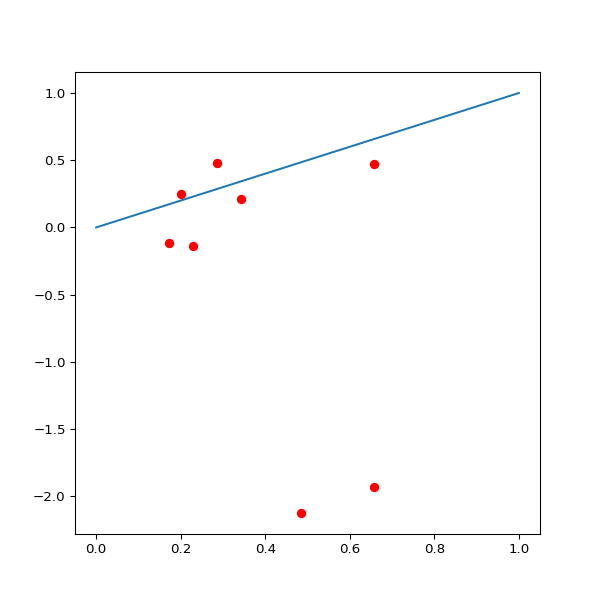
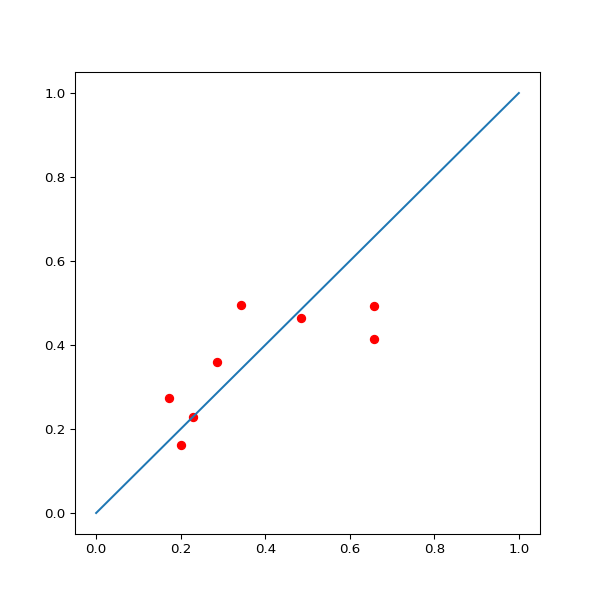
p1 done

diff --git a/project2/fitting.py b/project2/fitting.py
@@ -17,7 +17,7 @@ from drift_diffusion_simul import drift_diffusion_simulation
 ### You can define your own functions or constants here ... if you want.
 
 
-def model(x, c1, c2, c3, c4):
+def p1model(x, c1, c2, c3, c4):
     x = np.array(x) / 1000
     sigma1 = c2 * x[:,3]
     sigma2 = c3 + (1 / (np.exp(c4 * x[:,1]) - 1))
@@ -25,7 +25,8 @@ def model(x, c1, c2, c3, c4):
     sigma = (np.power(sigma1, 2) * np.power(sigma2, 2))/(np.power(sigma1, 2) + np.power(sigma2, 2))
     for i in range(0,8):
         if np.isnan(sigma[i]): sigma[i] = sigma1[i] ** 2
-    result = (1 / np.sqrt(2 * np.pi * sigma)) * np.exp(-np.power(x[:,0] - mu, 2) / (2 * sigma))
+    #result = (1 / np.sqrt(2 * np.pi * sigma)) * np.exp(-np.power(x[:,0] - mu, 2) / (2 * sigma))
+    result = 0.5 * (1 + scipy.special.erf((x[:,0] - mu)/np.sqrt(2*sigma)))
     return 1 - result
 
 # Problem 1
@@ -43,12 +44,12 @@ def mta_fitting(input_tech:bool, data_file_path = "../2018147558.csv"):
         y.append(1 - data[cond & key]['success'].mean())
         x.append(data[cond & key & success].loc[:,['timestamp','t_cue','t_zone','p']].mean().to_numpy())
     
-    popt, _ = scipy.optimize.curve_fit(model, x, np.array(y), bounds=([-0.5, 0, 0, 150], [0.5, 0.5, 0.1, 350]))
-    print(model(x,*popt))
+    popt, _ = scipy.optimize.curve_fit(p1model, x, np.array(y), bounds=([-0.5, 0, 0, 150], [0.5, 0.5, 0.1, 350]))
+    print(p1model(x,*popt))
     print(y)
     print(popt)
     plt.figure(figsize=(600/96, 600/96), dpi=96)
-    plt.plot(y, model(x, *popt), 'ro')
+    plt.plot(y, p1model(x, *popt), 'ro')
     plt.plot([0, 0.5, 1], [0, 0.5, 1], label='x=y')
     if input_tech : plt.savefig('./scatterplot/mta_pressed.png', dpi = 96)
     else : plt.savefig('./scatterplot/mta_released.png', dpi = 96)
@@ -65,7 +66,8 @@ def fl_fitting(data_file_path="./dataset/pointing_task.csv"):
     cond = data['success'] == 1
     x.append(data[cond].loc[:,['width', 'distance']].to_numpy())
     y.append(data[cond])
-    # Complete this function ...
+    
+    
 
     ### The name of variables are free to set
     ### But the order of return shouldn't be revised.
